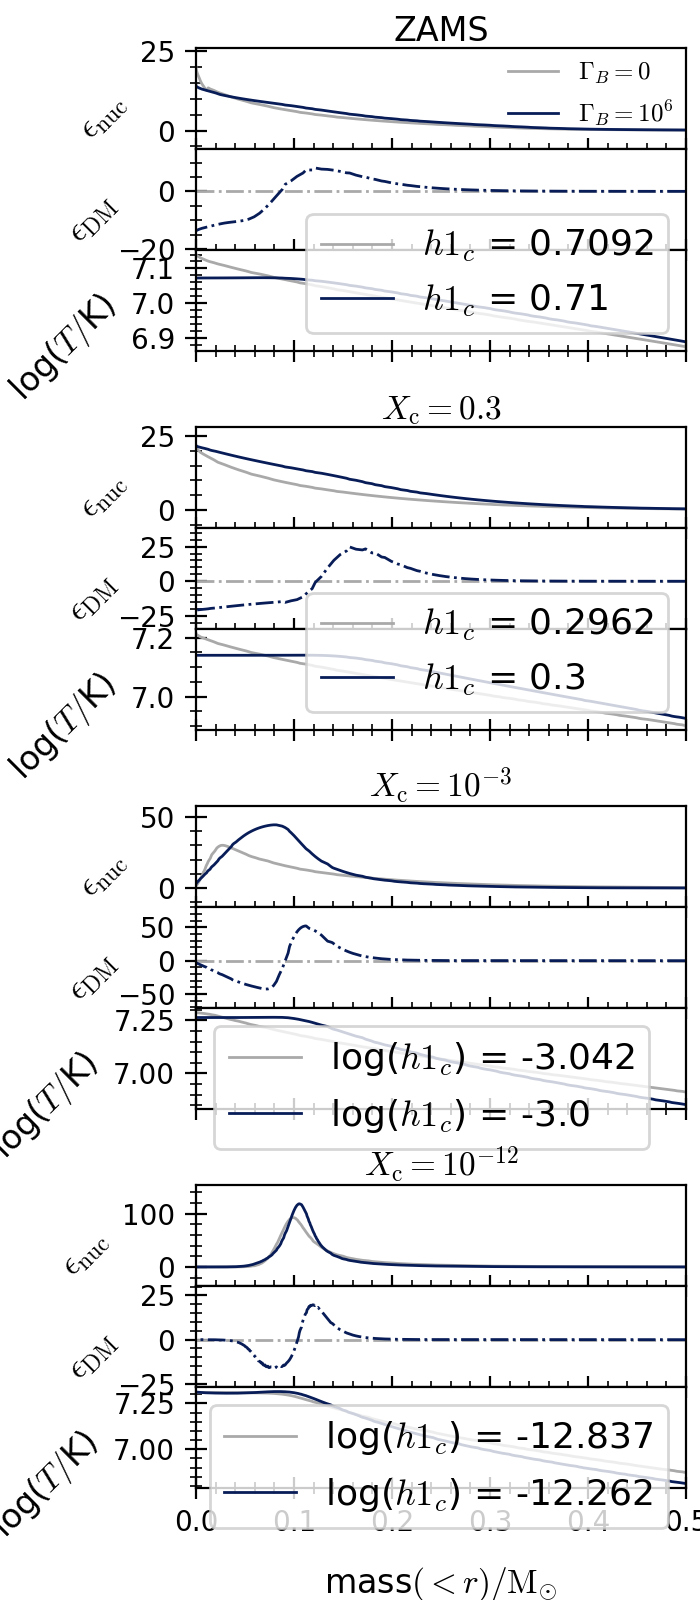
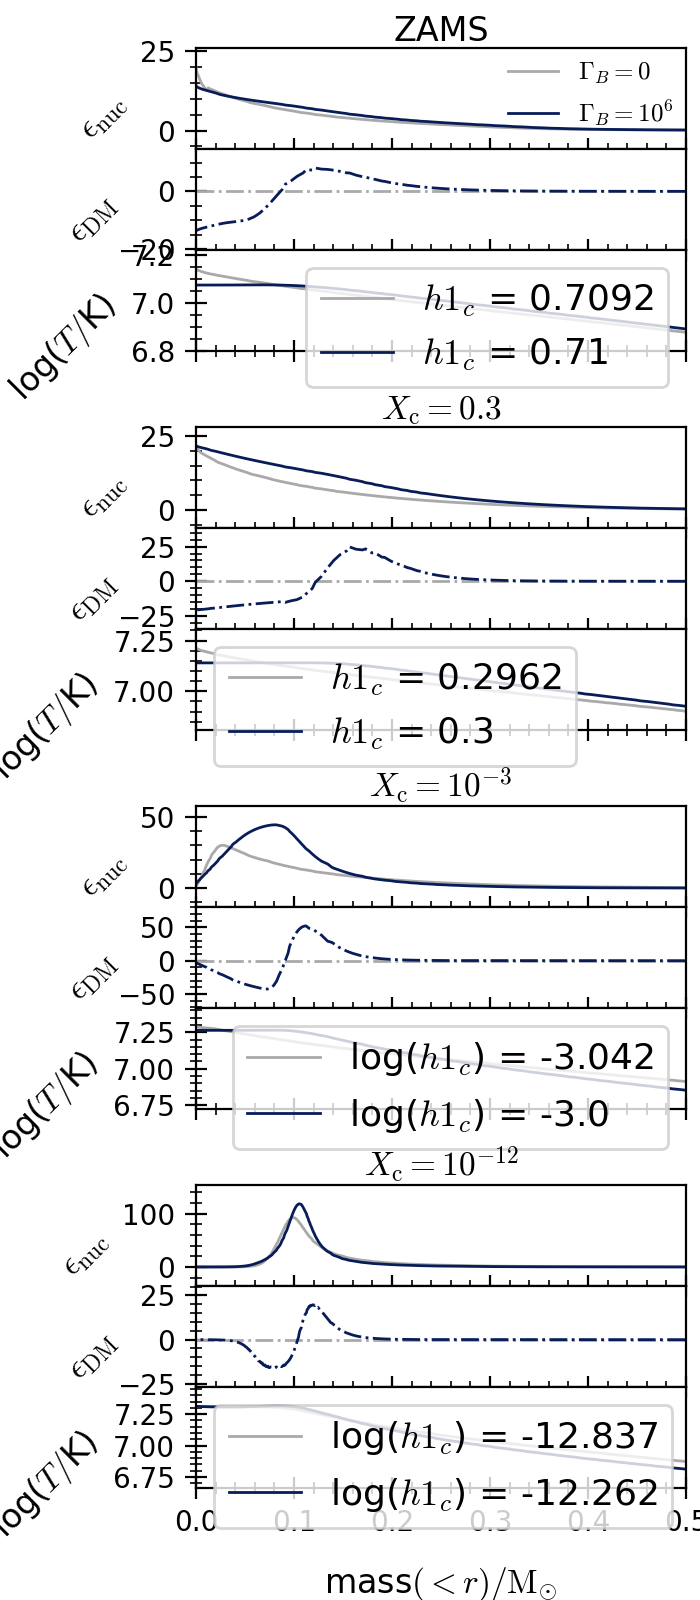
adds Hburned.png and 3.5 & 1.0 profile plots

diff --git a/_Paper/figures/plot_fncs.py b/_Paper/figures/plot_fncs.py
@@ -2195,6 +2195,7 @@ def plot_m1p0(peeps=None, h1_legend=True, talk_plot=False, save=None):
         margin = 0.3
         axe.margins(y=margin)
         axtwin.margins(y=margin)
+        axc.margins(y=margin)
 
         if h1_legend:
             axc.legend()

diff --git a/_Paper/figures/main.md b/_Paper/figures/main.md
@@ -298,7 +298,7 @@ probmods['deltaSpike'] = [(2.55,4), (3.35,4), (3.5,5)]
 ```
 
 <a name="MStauVsMass"></a>
-# MS lifetimes vs Mass
+## MS lifetimes vs Mass
 <!-- fs -->
 ```python
 %run plot_fncs
@@ -354,7 +354,7 @@ Models that increase predictably, due to DM shutting off core convection:
 <!-- fe  -->
 
 <a name="XcVsTime"></a>
-# Xc as fnc of time:
+## Xc as fnc of time:
 <!-- fs -->
 ```python
 %run plot_fncs
@@ -422,10 +422,10 @@ nonmono.loc[nonmono.h1_mono==False,:]
 <!-- fe  -->
 
 <a name="probmod_profiles"></a>
-# Look at 2.4c0 and 2.55c4 (which have the most noticeable affects)
+## Look at 2.4c0 and 2.55c4 (which have the most noticeable affects)
 <!-- fs -->
 
-## Look at the 2.4c0 model more closely:
+### Look at the 2.4c0 model more closely:
 <!-- fs -->
 ```python
 %run plot_fncs
@@ -577,7 +577,7 @@ This confirms that the inner edge of the rotational mixing zone extends into the
 
 <!-- fe ## Look at the 2.4c0 model more closely: -->
 
-## Look at the 2.55c4 model more closely:
+### Look at the 2.55c4 model more closely:
 <!-- fs -->
 Plots below show similar patterns to 2.4c0 plots above.
 
@@ -733,7 +733,31 @@ plot_delta_tau(descdf, cctrans_frac='default', which='avg', save=save[1])
 <img src="temp/MStau.png" alt="/MStau.png" width="400"/>
 
 #### Debug:
-[See above](#bugs)
+[See above](#bugs) for exploration/explanation of the random deviations from the trends (due to rotational mixing -> injecting h1 into center)
+
+Check how much hydrogen is being burned, relative to c0 model of same mass.
+- [x]  Update `data_proc.py` to find Hburned = (c6hburn - c0hburn)/c0hburn and regenerate `descDF.csv`
+
+```python
+from matplotlib import pyplot as plt
+
+%run plot_fncs
+descdf = get_descdf(fin=fdesc)
+
+pvt = {'index':'mass','columns':'cboost','values':'Hburned'}
+dpiv = descdf.pivot(**pvt)
+plt.set_cmap(cbcmap)
+args = {'cmap':cbcmap}
+dpiv.plot(**args)
+plt.legend(loc=4)
+plt.ylabel('(Hburned - Hburned_c0)/Hburned_c0', fontsize=12)
+plt.tight_layout()
+save = plotdir + '/Hburned.png'
+plt.savefig(save)
+```
+
+<img src="temp/Hburned.png" alt="Hburned.png" width="400"/>
+
 <!-- fe -->
 
 
@@ -941,41 +965,83 @@ plot_hottest_Teff(save=save[1], plot_data=hotTeff_csv, resid=False, plotL=plotL)
 peeps = [ 'ZAMS', 'IAMS', 'H-3', 'H-4' ]
 save = [None, plotdir+'/m3p5.png', finalplotdir+'/m3p5.png']
 h1_legend = [False, True]
-plot_m3p5(peeps=peeps, h1_legend=h1_legend[1], save=save[1])
+plot_m3p5(peeps=peeps, h1_legend=h1_legend[1], save=plotdir+'/m3p5_legend.png')
+plot_m3p5(peeps=peeps, h1_legend=h1_legend[0], save=save[1])
 ```
 
 <img src="temp/m3p5.png" alt="m3p5.png" height="400"/>
+<img src="temp/m3p5_legend.png" alt="m3p5_legend.png" height="400"/>
 
 #### Debug:
 
 - [ ]  last two profiles are at the wrong times. the correct profiles did not get saved. run models again.
     - profile for h1_center<1e-4 was not set to be saved in `run_star_extras.f`. Not sure why h1_center<1e-3 didn't save. can find the model numbers from `hdf` and save profiles that way.
-    - _first_ think about what story I'm trying to tell with this plot and make sure those profiles will still tell that story
 
 ```python
 from pandas import IndexSlice as idx
 import debug_fncs as dbg
 
+h1cuts, __ = get_h1cuts()
+moddic = {}
 mass, cb = 3.5, [0,6]
-pidf.set_index(['mass','cb'], inplace=True)
-p3 = pidf.loc[idx[mass,cb],:]
-modnums = { 0: list(p3.loc[idx[:,0],'model_number']),
-            6: list(p3.loc[idx[:,6],'model_number'])
-            }
-hdf = pd.concat([get_hdf(0, mass=mass), get_hdf(6, mass=mass)])
-hdf['mass'] = 3.5
-hdf.set_index(['mass','cb'], inplace=True)
-
-dbg.plot_m3p5_h1vage(hdf, modnums=modnums)
-
-p3['center_h1'] = p3.apply(dbg.get_h1_for_p3, axis=1, hdf=hdf, result_type='expand')
-# having trouble getting the centerh1 values into p3
-
-# do this instead
-p3['center_h1'] = hdf.loc[p3.set_index('model_number').index,'center_h1']
-pvt = {'index':'priority', 'columns':'cb', 'values':'center_h1'}
-p3.pivot(**pvt)
+for c in cb:
+    print(c, hdf.model_number.max())
+    moddic[c] = {}
+    hdf = get_hdf(c, mass=mass).sort_values('model_number')
+    for name, cut in h1cuts.items():
+        m = hdf.loc[hdf.center_h1<cut,'model_number'].min()
+        moddic[c][name] = m
 ```
+
+Update run_star_extras to save model numbers in moddic, then re-run these two models.
+```bash
+maindir="/home/tjr63/DMS/mesaruns"
+cd ${maindir}
+nano src/run_star_extras.f
+# Update run_star_extras to save model numbers in moddic
+./clean
+./mk
+RUNS="RUNS_FINAL_tmp"
+source ${maindir}/bash_scripts/do_mesa_run.sh
+# source ${maindir}/images_to_movie.sh # the call to this script fails
+mass=m3p50
+mval=3.50
+cb=0
+do_mesa_run "${maindir}" "${RUNS}/c${cb}/${mass}" "${mval}" "${cb}" 0 "master" 0
+
+RUNSfinal="RUNS_FINAL"
+RUNSdefDM="RUNS_defDM"
+mass=m3p50
+mv "${RUNSfinal}/c${cb}/${mass}" "${RUNSdefDM}/c${cb}/${mass}"
+mv "${RUNS}/c${cb}/${mass}" "${RUNSfinal}/c${cb}/${mass}"
+# repeat for cb=6
+
+cd
+cd DMS/mesaruns_analysis/_Paper/figures/
+dmsenv
+ipython
+```
+
+Prune the new history files
+```python
+from pathlib import Path
+import data_proc as dp
+import plot_fncs as pf
+rootPath = Path(pf.datadir)
+for cb in [0,6]:
+    LOGSdir = Path(pf.datadir + f'/c{cb}/m3p50/LOGS')
+    dp.prune_hist(LOGSdir, skip_exists=False, ow_exists=True)
+```
+Now the above plots should have the correct data.
+
+#### Check that temp profile is flattened
+```python
+# alter plot_fncs plot_m3p5() to show T instead of convection
+save = plotdir+'/m3p5_temp_profiles.png'
+plot_m3p5(peeps=peeps, h1_legend=False, save=save)
+```
+<img src="temp/m3p5_temp_profiles.png" alt="m3p5_temp_profiles.png" width="400"/>
+It is flattened.
 
 <!-- fe -->
 
@@ -988,9 +1054,10 @@ The old plots for 1Msun models are no longer relevant. I think something like th
 ```python
 peeps = [ 'ZAMS', 'IAMS', 'H-3', 'TAMS']
 save = [None, plotdir+'/m1p0.png', finalplotdir+'/m1p0.png']
-plot_m1p0(peeps=peeps, h1_legend=False, talk_plot=False, save=save[1])
+plot_m1p0(peeps=peeps, h1_legend=True, save=plotdir+'/m1p0_h1Legend.png')
+plot_m1p0(peeps=peeps, h1_legend=False, save=save[1])
 ```
-
+<img src="temp/m1p0_h1Legend.png" alt="m1p0_h1Legend.png" height="400"/>
 <img src="temp/m1p0.png" alt="m1p0.png" height="400"/>
 <!-- fe -->
 
